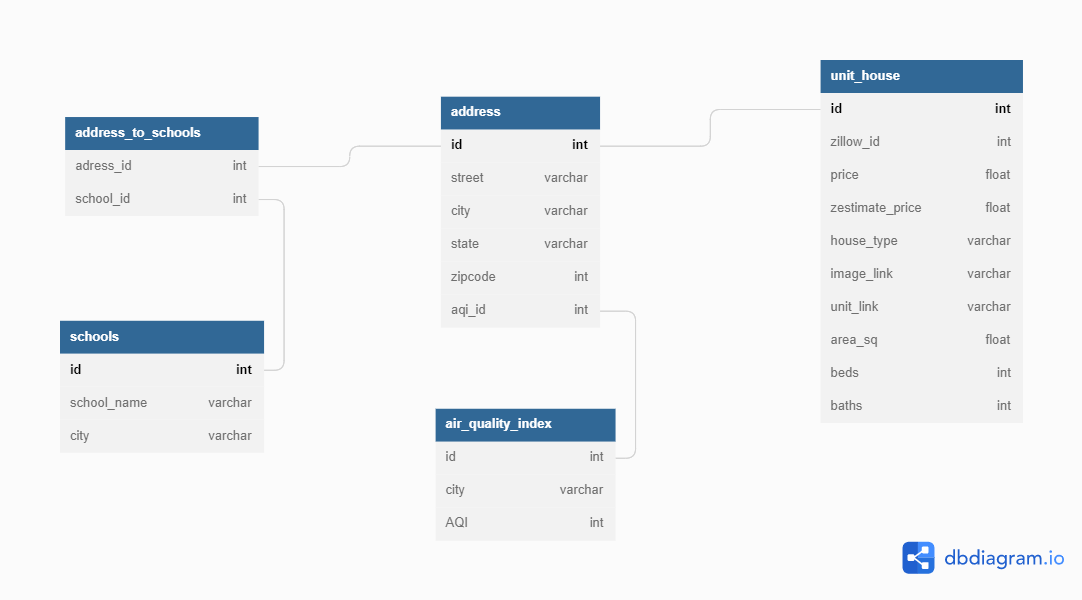
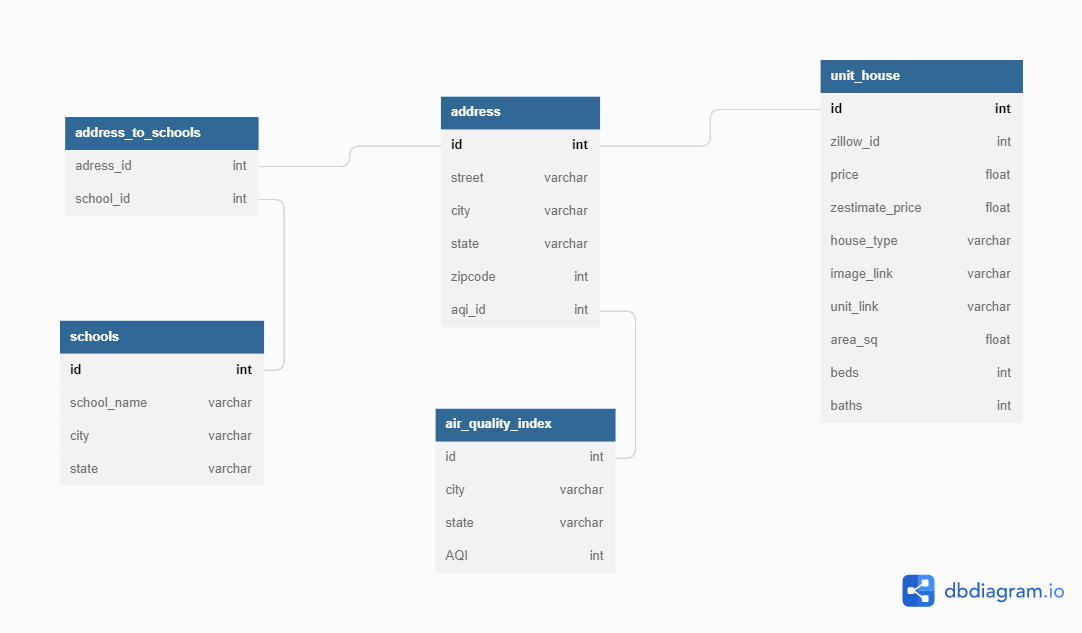
update logger and config for empty database file. update readme and applicable pictures of ERD and schema. minor updates to align to pep8.

diff --git a/insert_data_to_db.py b/insert_data_to_db.py
@@ -7,7 +7,7 @@ def data_from_scraper_to_db(df):
     address(all columns except aqi_id) in database zillow """
     # connect to mysql using pymysql
     try:
-        conn = pymysql.connect(user='root', password=cfg.SQL_PASS, database='zillow')
+        conn = pymysql.connect(user=cfg.SQL_ROOT, password=cfg.SQL_PASS, database=cfg.DATABASE_NAME)
     except Exception as error:
         print(f'Below error occurred. Did you create the database? \n {error}')
     else:
@@ -48,20 +48,20 @@ def data_from_api_school_to_db(df_school):
         address_to_schools(all columns) in database zillow """
     # connect to mysql using pymysql
     try:
-        conn = pymysql.connect(user='root', password=cfg.SQL_PASS, database='zillow')
+        conn = pymysql.connect(user=cfg.SQL_ROOT, password=cfg.SQL_PASS, database=cfg.DATABASE_NAME)
     except Exception as error:
         print(f'Below error occurred. Did you create the database? \n {error}')
     else:
         cursor = conn.cursor()
 
-    #to insert data from df_school to table schools
+    # to insert data from df_school to table schools
     schools_s = df_school[['school_name', 'city', 'state']].values.tolist()
     q3 = 'insert into schools (school_name, city, state) values (%s, %s, %s) on duplicate key update city = values(city)'
     for school in schools_s:
         cursor.execute(q3, school)
     conn.commit()
 
-    #to insert data from table schools(id) and table address(id) into table address_to_schools
+    # to insert data from table schools(id) and table address(id) into table address_to_schools
     q5 = "select id from address"
     cursor.execute(q5)
     id_tuple_address = cursor.fetchall()
@@ -85,18 +85,19 @@ def data_from_api_school_to_db(df_school):
 
     conn.commit()
 
+
 def data_from_api_AQI_to_db(df_aqi):
     """Inserts data from air quality index API, to tables air_quality_index (all columns),
         address(column aqi_id) in database zillow """
     # connect to mysql using pymysql
     try:
-        conn = pymysql.connect(user='root', password=cfg.SQL_PASS, database='zillow')
+        conn = pymysql.connect(user=cfg.SQL_ROOT, password=cfg.SQL_PASS, database=cfg.DATABASE_NAME)
     except Exception as error:
         print(f'Below error occurred. Did you create the database? \n {error}')
     else:
         cursor = conn.cursor()
 
-    #to insert data from df_school to table air_quality_index
+    # to insert data from df_school to table air_quality_index
     aqis = df_aqi[['city', 'state', 'AQI']].values.tolist()
     q9 = 'insert into air_quality_index (city, state, AQI) values (%s, %s, %s) on duplicate key update AQI = values(AQI)'
     for aqi in aqis:

diff --git a/empty_database.py b/empty_database.py
@@ -1,6 +1,9 @@
 """Below code creates empty database zillow, and tables inside. """
 import pymysql
 import zillow_config as cfg
+import log
+
+logger = log.setup_custom_logger(__name__)
 
 
 def get_connection():
@@ -21,7 +24,7 @@ def create_db(cursor):
     create_db_zillow = 'create database zillow'
     cursor.execute(del_existing_db)
     cursor.execute(create_db_zillow)
-    print('db zillow is created.')
+    logger.info('Successfully created data base zillow.')
 
 
 def create_tables(cursor):
@@ -91,23 +94,23 @@ def create_tables(cursor):
 
     cursor.execute(del_existing_unit_house)
     cursor.execute(create_unit_house)
-    print('table unit_house is created.')
+    logger.info('Successfully created table unit_house.')
 
     cursor.execute(del_existing_air_quality_index)
     cursor.execute(create_air_quality_index)
-    print('table air_quality_index is created.')
+    logger.info('Successfully created table air_quality_index.')
 
     cursor.execute(del_existing_address)
     cursor.execute(create_address)
-    print('table address is created.')
+    logger.info('Successfully created table address.')
 
     cursor.execute(del_existing_schools)
     cursor.execute(create_schools)
-    print('table schools is created.')
+    logger.info('Successfully created table schools.')
 
     cursor.execute(del_existing_address_to_schools)
     cursor.execute(create_address_to_schools)
-    print('table address_to_schools is created.')
+    logger.info('Successfully created table address_to_schools.')
 
 
 def main():

diff --git a/data_from_api.py b/data_from_api.py
@@ -53,7 +53,7 @@ def get_aqi_table(search_city, search_state):
     Returns data of air quality index for query city in data frame"""
     aqi_data = get_data_from_api(cfg.AQI_URL, get_parameter(input_city=search_city, input_state=search_state))
     aqi_for_city = get_air_quality_data(aqi_data)
-    aqi_df = pd.DataFrame({'city': [search_city], 'state': [search_state], 'AQI': [aqi_for_city]})
+    aqi_df = pd.DataFrame({'city': [' '.join(search_city.split('-'))], 'state': [search_state], 'AQI': [aqi_for_city]})
     return aqi_df
 
 

diff --git a/zillow_main.py b/zillow_main.py
@@ -6,7 +6,8 @@ import pandas as pd
 from tqdm import tqdm
 import argparse
 import data_from_api
-from insert_data_to_db import data_from_scraper_to_db, data_from_api_school_to_db, data_from_api_AQI_to_db
+from insert_data_to_db import data_from_scraper_to_db, data_from_api_school_to_db,\
+    data_from_api_AQI_to_db
 import log
 import warnings
 warnings.filterwarnings('ignore')

diff --git a/zillow_config.py b/zillow_config.py
@@ -18,6 +18,7 @@ BASE_URL = 'https://www.zillow.com/homes/'
 # for connection to MySQL
 SQL_PASS = db_password
 SQL_ROOT = db_root
+DATABASE_NAME = 'zillow'
 
 # for requests from APIs
 SCHOOLS_BASE_URL = "https://api.data.gov/ed/collegescorecard/v1/schools.json"

diff --git a/README.md b/README.md
@@ -1,7 +1,7 @@
 # Data mining project based on Zillow
 
 
-[![a pic from zillow website ](https://s.zillowstatic.com/pfs/static/footer-art.svg)](https://s.zillowstatic.com/pfs/static/footer-art.svg)
+![](zillow_image.svg)
 
 ✨- _link of this project: https://github.com/NoyAmram/Zillow_
 
@@ -47,17 +47,8 @@ Database containing 5 tables, below is an ERD visualization:
 ![](Zillow_project_ERD.png)
 
 schema of the tables are shown below:
-```markdown
-+--------------+-----------------+----------------------+---------------------------+
-| TABLE_SCHEMA | TABLE_NAME      | COLUMN_NAME          | CONSTRAINT_NAME           |
-+--------------+-----------------+----------------------+---------------------------+
-| zillow       | unit_address    | id                   | unit_address_ibfk_1       |
-| zillow       | unit_image      | id                   | unit_image_ibfk_1         |
-| zillow       | unit_info       | id                   | unit_info_ibfk_1          |
-| zillow       | unit_link       | id                   | unit_link_ibfk_1          |
-```
 
-
+![](zillow_schema.png)
 
 
 ### Contributing
